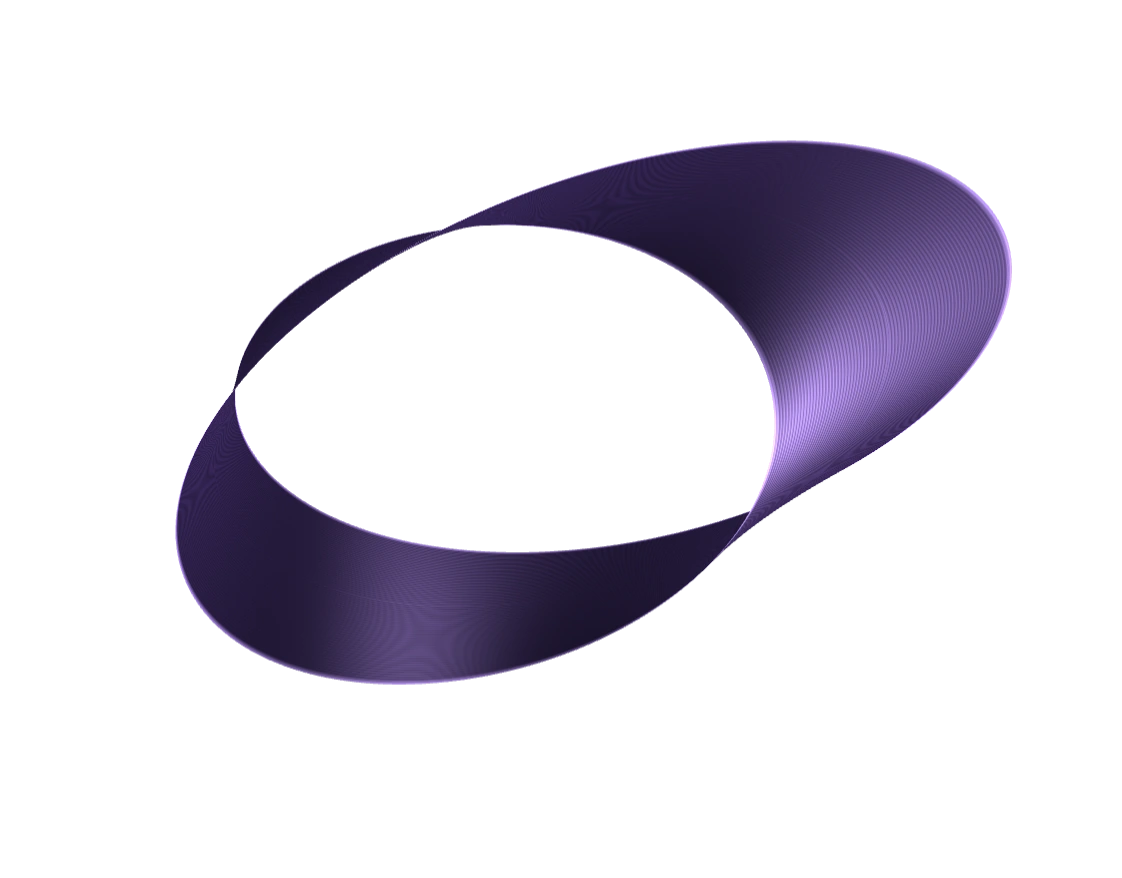
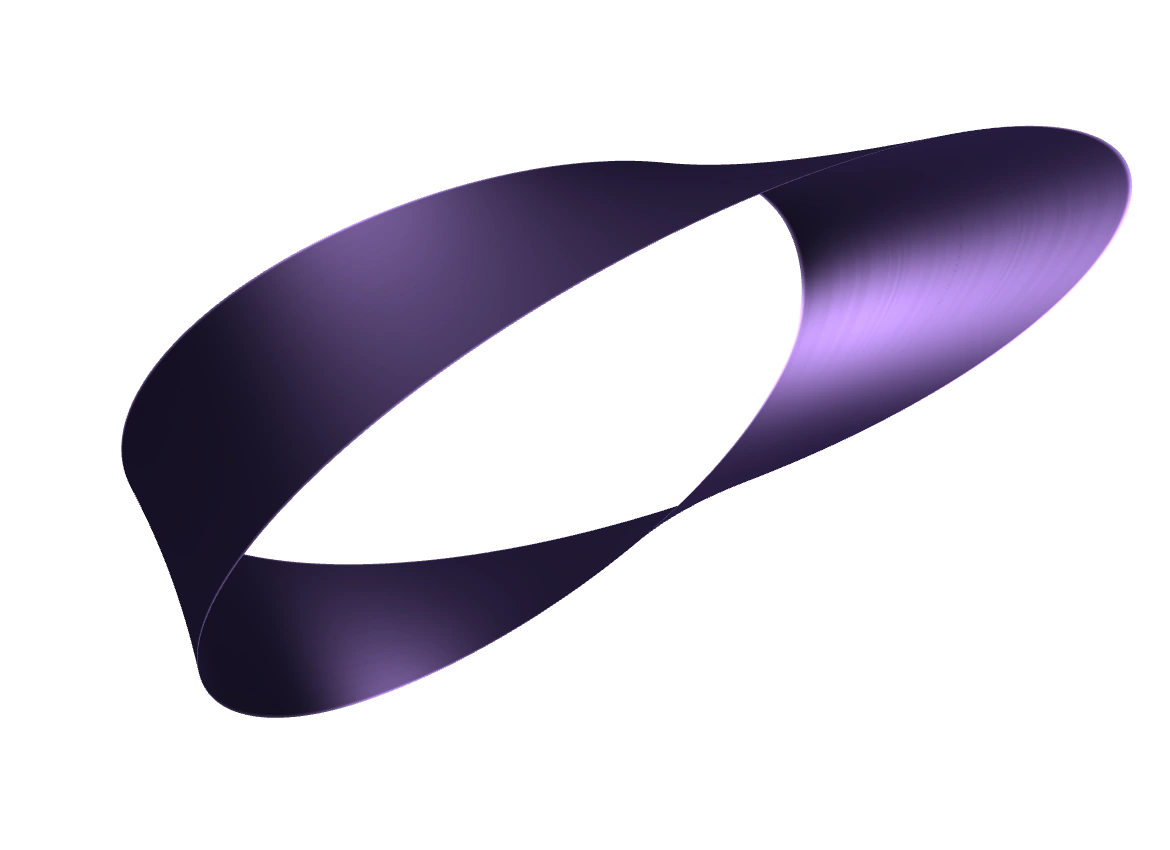
fix: match Möbius hero proportions and satin lighting

Changed region(s): [[0.0936, 0.1224, 0.967, 0.8565]]

diff --git a/src/mobiusRenderer.ts b/src/mobiusRenderer.ts
@@ -28,8 +28,8 @@ const vertexSource = `
     surfaceNormal = rotate(normal);
     surfaceTangent = rotate(tangent);
     surfaceUv = materialPosition;
-    float scale = 3.24 * clamp(aspect / 1.42, 1.0, 1.17);
-    gl_Position = vec4(p.x * scale / aspect, p.y * scale, depth - 0.2, depth);
+    float scale = 3.74 * clamp(aspect / 1.34, 1.0, 1.27);
+    gl_Position = vec4(p.x * scale / aspect - 0.045 * depth, p.y * scale, depth - 0.2, depth);
   }
 `
 
@@ -43,38 +43,58 @@ const fragmentSource = `
   varying vec3 surfacePosition;
   varying vec2 surfaceUv;
 
+  float fiberNoise(float coordinate) {
+    float fiber = floor(coordinate);
+    float first = fract(sin(fiber * 127.1) * 43758.5453);
+    float next = fract(sin((fiber + 1.0) * 127.1) * 43758.5453);
+    float grain = mix(first, next, smoothstep(0.0, 1.0, fract(coordinate))) - 0.5;
+    #ifdef FILTER_FIBERS
+      grain *= 1.0 - smoothstep(0.35, 1.15, fwidth(coordinate));
+    #endif
+    return grain;
+  }
+
+  float satinReflection(vec3 n, vec3 t, vec3 b, vec3 v, vec3 l) {
+    vec3 h = normalize(v + l);
+    float facing = max(dot(n, h), 0.0);
+    vec2 slope = vec2(dot(t, h) / 0.54, dot(b, h) / 0.26);
+    return exp(-dot(slope, slope) / max(facing * facing, 0.02))
+      * facing * smoothstep(-0.13, 0.37, dot(n, l));
+  }
+
   void main() {
-    vec3 deepViolet = vec3(0.064, 0.047, 0.112);
-    vec3 violet = vec3(0.35, 0.24, 0.54);
-    vec3 lavender = vec3(0.74, 0.62, 0.92);
+    vec3 shadow = vec3(0.041, 0.033, 0.072);
+    vec3 violet = vec3(0.21, 0.145, 0.33);
+    vec3 lavender = vec3(0.79, 0.63, 0.95);
     vec3 view = normalize(vec3(0.0, 0.0, 4.2) - surfacePosition);
     vec3 normal = normalize(surfaceNormal);
     normal *= dot(normal, view) < 0.0 ? -1.0 : 1.0;
-    vec3 tangent = normalize(surfaceTangent);
-    vec3 key = normalize(vec3(0.66 + lightPosition.x * 0.32, -0.73 + lightPosition.y * 0.29, -0.22));
-    vec3 fill = normalize(vec3(0.36, 0.76, -0.29));
-    vec3 halfKey = normalize(view + key);
-    vec3 halfFill = normalize(view + fill);
+    vec3 tangent = normalize(surfaceTangent - normal * dot(normal, surfaceTangent));
+    vec3 across = cross(normal, tangent);
+    vec3 key = normalize(vec3(0.58 + lightPosition.x * 0.29, -0.86 + lightPosition.y * 0.27, -0.26));
+    vec3 bounce = normalize(vec3(-0.36, 0.81, -0.21));
+    float diffuse = 0.54 * max(dot(normal, key), 0.0) + 0.31 * max(dot(normal, bounce), 0.0);
+    float reflection = 0.91 * satinReflection(normal, tangent, across, view, key)
+      + 0.54 * satinReflection(normal, tangent, across, view, bounce);
 
-    float diffuse = 0.55 * max(dot(normal, key), 0.0) + 0.36 * max(dot(normal, fill), 0.0);
-    float satin = pow(max(dot(normal, halfKey), 0.0), 18.0);
-    satin *= 0.52 + 0.48 * pow(1.0 - abs(dot(tangent, halfKey)), 2.0);
-    satin += 0.42 * pow(max(dot(normal, halfFill), 0.0), 20.0);
-    float grazing = pow(1.0 - clamp(dot(normal, view), 0.0, 1.0), 2.5);
-
-    // Parallel fibers run along the strip, with a second, finer band of grain.
-    // Mirroring the width coordinate keeps the finish continuous at the twist seam.
+    // Irregular longitudinal fibers catch the light without moiré bands.
+    // The coordinates repeat across the reversed seam of the half-twist.
     float width = abs(surfaceUv.y);
     float along = surfaceUv.x * 6.2831853;
-    float fiber = sin(width * 230.0 + sin(along * 6.0) * 0.78);
-    float fineFiber = sin(width * 479.0 - cos(along * 15.0) * 0.86);
-    float brushing = 1.0 + fiber * 0.16 + fineFiber * 0.045;
-    float edge = smoothstep(0.945, 0.997, width);
+    float fibers = fiberNoise(width * 136.0 + 0.37 * sin(along * 5.0))
+      + 0.46 * fiberNoise(width * 52.0 - 0.18 * cos(along * 9.0));
+    float brush = 1.0 + 0.18 * fibers;
 
-    vec3 color = deepViolet;
-    color += violet * (diffuse * 0.40 + grazing * 0.23) * brushing;
-    color += lavender * satin * 0.83 * brushing;
-    color += lavender * edge * (0.26 + diffuse * 0.65 + grazing * 0.21);
+    float grazing = pow(1.0 - max(dot(normal, view), 0.0), 2.2);
+    float edge = smoothstep(0.967, 1.0, width);
+    vec3 rim = normalize(vec3(-0.74, -0.57, 0.33));
+    float edgeLight = 0.14 + 0.52 * diffuse + 0.45 * reflection
+      + 0.24 * max(dot(normal, rim), 0.0);
+
+    vec3 color = shadow + violet * (0.10 + 0.62 * diffuse + 0.16 * grazing);
+    color *= 1.0 + 0.055 * fibers;
+    color += lavender * reflection * brush;
+    color += lavender * edge * edgeLight;
     gl_FragColor = vec4(color, 1.0);
   }
 `
@@ -92,35 +112,46 @@ function compile(gl: WebGLRenderingContext, type: number, source: string) {
 }
 
 function createMesh() {
-  const segments = 192
-  const across = 24
+  const segments = 224
+  const across = 28
+  const majorRadius = 1.12
+  const minorRadius = .82
+  const halfWidth = .40
+  const twistOffset = .34
   const vertices: number[] = []
   const indices: number[] = []
 
   for (let along = 0; along <= segments; along++) {
     const u = along / segments
-    const angle = u * Math.PI * 2
+    const angle = along === segments ? 0 : u * Math.PI * 2
     const cos = Math.cos(angle)
     const sin = Math.sin(angle)
-    const halfCos = Math.cos(angle / 2)
-    const halfSin = Math.sin(angle / 2)
+    // The last row matches the first row in reverse. Duplicate seam vertices
+    // carry the flipped normals required by the non-orientable surface.
+    const seamSign = along === segments ? -1 : 1
+    const halfCos = seamSign * Math.cos(angle / 2 + twistOffset)
+    const halfSin = seamSign * Math.sin(angle / 2 + twistOffset)
+    const length = Math.hypot(minorRadius * cos, majorRadius * sin)
+    const lengthDerivative = (majorRadius ** 2 - minorRadius ** 2) * sin * cos / length
+    const outwardX = minorRadius * cos / length
+    const outwardY = majorRadius * sin / length
+    const outwardDerivativeX = (-minorRadius * sin - outwardX * lengthDerivative) / length
+    const outwardDerivativeY = (majorRadius * cos - outwardY * lengthDerivative) / length
 
     for (let column = 0; column <= across; column++) {
-      const v = (2 * column) / across - 1
-      const offset = v * .37
-      const radius = 1 + offset * halfCos
-      const radiusDerivative = -.5 * offset * halfSin
-
-      // Analytic derivatives of the strip along its length and across its width.
-      const tx = radiusDerivative * cos - radius * sin
-      const ty = radiusDerivative * sin + radius * cos
-      const tz = .5 * offset * halfCos
-      const wx = halfCos * cos
-      const wy = halfCos * sin
+      const v = (2 * column - across) / across
+      const offset = v * halfWidth
+      const wx = outwardX * halfCos
+      const wy = outwardY * halfCos
       const wz = halfSin
+      const tx = -majorRadius * sin + offset * (outwardDerivativeX * halfCos - .5 * outwardX * halfSin)
+      const ty = minorRadius * cos + offset * (outwardDerivativeY * halfCos - .5 * outwardY * halfSin)
+      const tz = .5 * offset * halfCos
 
       vertices.push(
-        radius * cos, radius * sin, offset * halfSin,
+        majorRadius * cos + offset * wx,
+        minorRadius * sin + offset * wy,
+        offset * wz,
         ty * wz - tz * wy, tz * wx - tx * wz, tx * wy - ty * wx,
         tx, ty, tz, u, v,
       )
@@ -139,7 +170,10 @@ const mesh = createMesh()
 
 export function createMobiusRenderer(gl: WebGLRenderingContext) {
   const vertex = compile(gl, gl.VERTEX_SHADER, vertexSource)
-  const fragment = compile(gl, gl.FRAGMENT_SHADER, fragmentSource)
+  const fragmentPrefix = gl.getExtension('OES_standard_derivatives')
+    ? '#extension GL_OES_standard_derivatives : enable\n#define FILTER_FIBERS\n'
+    : ''
+  const fragment = compile(gl, gl.FRAGMENT_SHADER, fragmentPrefix + fragmentSource)
   const program = gl.createProgram()
   const vertices = gl.createBuffer()
   const indices = gl.createBuffer()
@@ -198,7 +232,7 @@ export function createMobiusRenderer(gl: WebGLRenderingContext) {
       gl.viewport(0, 0, width, height)
       gl.clear(gl.COLOR_BUFFER_BIT | gl.DEPTH_BUFFER_BIT)
       gl.uniform1f(aspect, width / height)
-      gl.uniform3f(angles, .98 + y * .21, -.20 + x * .29, .38 + x * .08)
+      gl.uniform3f(angles, 1.05 + y * .19, -.29 + x * .25, .51 + x * .065)
       gl.uniform2f(light, x, -y)
       gl.drawElements(gl.TRIANGLES, mesh.indices.length, gl.UNSIGNED_SHORT, 0)
     },

diff --git a/src/App.css b/src/App.css
@@ -113,7 +113,8 @@ body::after {
 .mobius-ribbon {
   position: relative;
   min-width: 0;
-  aspect-ratio: 1.28;
+  aspect-ratio: 1.38;
+  margin-inline-end: -24px;
   border-radius: var(--radius-panel);
   background: radial-gradient(ellipse at 59% 48%, var(--color-glow-hero), transparent 65%);
   cursor: default;
@@ -154,7 +155,8 @@ body::after {
   .mobius-ribbon {
     width: min(100%, 520px);
     justify-self: center;
-    aspect-ratio: 1.8;
+    aspect-ratio: 1.47;
+    margin-inline-end: 0;
   }
 }
 
